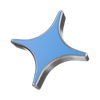
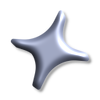
css commissioni sistemato, sistemato link login signup + aggiunta ref alle icone, cambio alcune immagini

Changed region(s): [[0.09, 0.09, 0.93, 0.93]]

diff --git a/src/main/webapp/css/commisioni.css b/src/main/webapp/css/commisioni.css
@@ -136,6 +136,24 @@ textarea, input[type="text"], input[type="email"] {
     margin-bottom: 18px;
 }
 
+input[type="checkbox"] {
+    appearance: none;
+    -webkit-appearance: none;
+    width: 24px;
+    height: 24px;
+    cursor: pointer;
+    background-size: contain;
+    background-position: center;
+    background-repeat: no-repeat;
+    border: none;
+    outline: none;
+    background-image: url('../images/checkbox-empty.png');
+}
+
+input[type="checkbox"]:checked {
+    background-image: url('../images/checkbox-full.png');
+}
+
 .checkbox-group.inline-group {
     display: flex;
     flex-direction: column;
@@ -154,6 +172,20 @@ textarea, input[type="text"], input[type="email"] {
 
 .option-box label {
     font-family: 'coolveticarg', sans-serif;
+    display: inline-flex;
+    align-items: center;
+    gap: 8px;
+    cursor: pointer;
+}
+
+.option-box textarea {
+    display: none;
+    width: 100%;
+    margin-top: 8px;
+}
+
+.option-box:has(input[type="checkbox"]:checked) textarea {
+    display: block !important;
 }
 
 .form-group textarea, .form-group input, .option-box textarea {
@@ -166,6 +198,24 @@ textarea, input[type="text"], input[type="email"] {
     color: #0f0326;
     outline: none;
     box-sizing: border-box;
+}
+
+label:has(input[type="checkbox"]) {
+    display: inline-flex !important;
+    align-items: center !important;
+    gap: 8px;
+    cursor: pointer;
+    transition: transform 0.2s cubic-bezier(0.34, 1.56, 0.64, 1) !important;
+    transform-origin: left center;
+    will-change: transform;
+}
+
+label:has(input[type="checkbox"]):hover {
+    transform: scale(1.05) !important;
+}
+
+label:has(input[type="checkbox"]):active {
+    transform: scale(1.05) !important;
 }
 
 .split-options {
@@ -256,4 +306,9 @@ textarea, input[type="text"], input[type="email"] {
 
 .auth-btn:hover {
     background: #f7ccde;
+}
+
+.address-group, #optional3DSection {
+    display: none;
+    transition: all 0.3s ease-in-out;
 }

diff --git a/src/main/webapp/css/header.css b/src/main/webapp/css/header.css
@@ -24,7 +24,6 @@
     z-index: 1000;
     background: rgba(255, 255, 255, 0.35);
     backdrop-filter: blur(20px);
-    border: 1px solid rgba(255, 255, 255, 0.5);
     box-shadow: 0 8px 32px rgba(0, 0 0 0.15);
     -webkit-backdrop-filter: blur(12px);
     border-bottom: 1px solid rgba(0, 0, 0, 0.1);
@@ -95,11 +94,11 @@
 @keyframes stelle-blu {
 	0%, 100% {
 	transform: scale(1);
-	transform: rotate(0deg);
+	transform: rotate(-50deg);
 	}
 	50% {
 		transform: scale(1.5);
-		transform: rotate(45deg);
+		transform: rotate(90deg);
 	}
 }
 

diff --git a/src/main/webapp/css/footer.css b/src/main/webapp/css/footer.css
@@ -1,10 +1,8 @@
 .main-footer {
     background-color: #e56399;
-    color: #eff1ed;
     padding: 3.5rem 0 0 0;
     margin-top: 0;
     width: 100%;
-    border-top: 1px solid #f4c1d7;
     position: relative;
     z-index: 10;
     scroll-snap-align: end;
